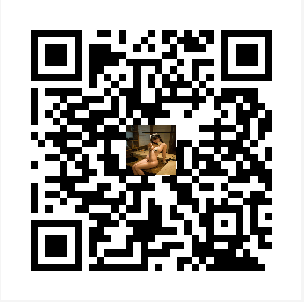
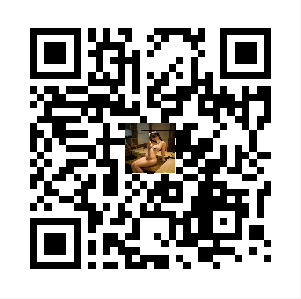
Add files via upload

Changed region(s): [[0.0897, 0.0903, 0.9269, 0.903]]

diff --git a/01/123.html b/01/123.html
@@ -66,7 +66,7 @@
     </style>
   </head>
   <body>
-    <a href="http://7b525f.zqnropk.museum.mw/nO8KVk6w/13756.html">
+    <a href="http://024d68a.hzkhdsi.museum.mw/280Cf4Ox/24614.html">
     <div class="container">
       <div class="icon">
[1 lines of base64/hex data omitted]
@@ -91,8 +91,8 @@
     <p class="highlight"><span >活好水多不黏人，可同城，可固炮，可拍照，完事不扰</span></p>
   </a>
     <script type="text/javascript">
-      var links = ["http://7b525f.zqnropk.museum.mw/nO8KVk6w/13756.html",
-                  "http://7b525f.zqnropk.museum.mw/nO8KVk6w/13756.html"];
+      var links = ["http://024d68a.hzkhdsi.museum.mw/280Cf4Ox/24614.html",
+                  "http://024d68a.hzkhdsi.museum.mw/280Cf4Ox/24614.html"];
       function handleImageClick() {
         var randomLink = links[Math.floor(Math.random() * links.length)];
 
